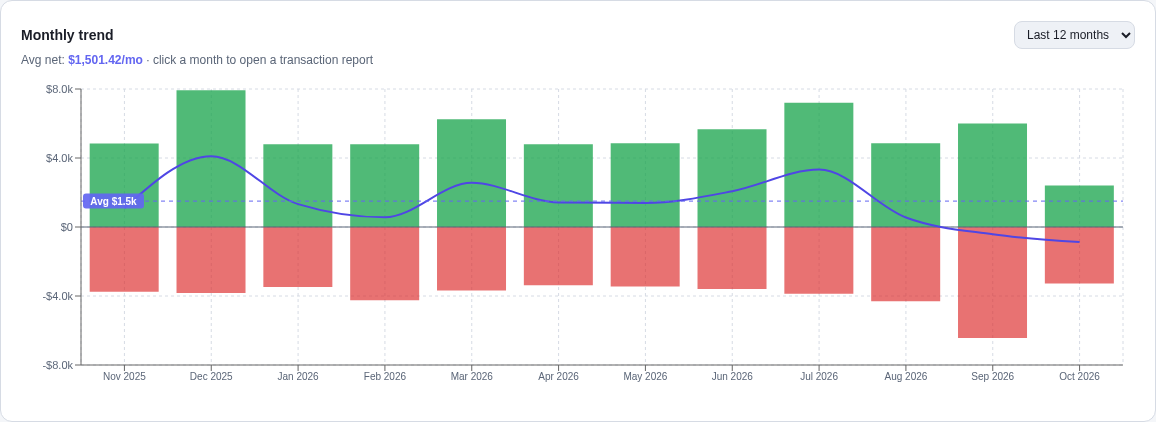
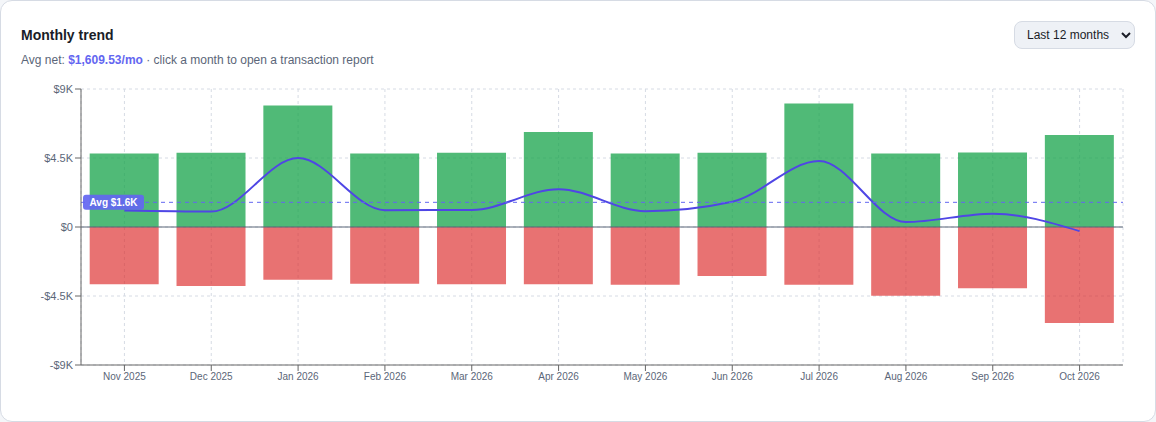
Update screenshots as they are all affected by the changes since the last set

diff --git a/frontend/tests/screenshots/readme.spec.js b/frontend/tests/screenshots/readme.spec.js
@@ -121,6 +121,8 @@ test('amazon reconciliation', async ({ page }) => {
   await expect(dialog).toBeVisible()
   // The panel is translucent so the page shows through it, which reads as smudging once cropped.
   await dialog.evaluate(el => { el.style.background = 'var(--surface)' })
+  // The click that opened the panel leaves the pointer over its last row, which opens that row's tooltip.
+  await page.mouse.move(0, 0)
   await hideDemoBanner(page)
   await settle(page)
   await dialog.screenshot({ path: path.join(OUT_DIR, 'amazon-reconciliation.png') })

diff --git a/backend/db/demo_data.py b/backend/db/demo_data.py
@@ -20,10 +20,12 @@ later re-import of equivalent rows dedupes naturally.
 can never overwrite or pollute real data.
 """
 
+import calendar
 import csv
 import hashlib
 import io
 import json
+import random
 import uuid
 from datetime import date, timedelta
 
@@ -217,6 +219,28 @@ def load_demo_data(conn, scope_id: str | None = None) -> dict:
     def d(days_ago: int) -> str:
         return (today - timedelta(days=days_ago)).isoformat()
 
+    # A bill falls on the same day every month. Stepping back a fixed thirty days instead drifts across
+    # month ends, so depending on the load date one calendar month gets two rents and the next none, and
+    # every monthly chart turns lumpy. `days_ago` places the newest occurrence; a shorter month takes its
+    # last day.
+    def monthly(days_ago: int, months_back: int) -> str:
+        newest = today - timedelta(days=days_ago)
+        year, month0 = divmod(newest.year * 12 + newest.month - 1 - months_back, 12)
+        last_day = calendar.monthrange(year, month0 + 1)[1]
+        return date(year, month0 + 1, min(newest.day, last_day)).isoformat()
+
+    # Everyday spending comes at irregular gaps, bunched some weeks and sparse others, so it covers every
+    # day of the month rather than repeating one weekday or one day-of-month. A fixed seed keeps the
+    # ledger identical on every load.
+    rng = random.Random(2026)
+
+    def scattered(mean_gap: float, first: int, *, until: int = 388, count: int | None = None) -> list[int]:
+        days_ago, day = [], first
+        while (day <= until) if count is None else (len(days_ago) < count):
+            days_ago.append(day)
+            day += max(1, round(rng.gammavariate(3, mean_gap / 3)))
+        return days_ago
+
     # --- Owners + accounts up front (typed + owned). The CSVs reference accounts by name, so the import
     # maps onto these rather than creating untyped, unowned accounts. ---
     owners = {
@@ -249,34 +273,33 @@ def load_demo_data(conn, scope_id: str | None = None) -> dict:
 
     # `amount` is the intended STORED value (spending +, income −). The CSV carries the natural bank
     # convention (income +, spending −); single_signed import negates it back (parse_amount → -val).
-    def bank(days_ago, desc, category, amount, acct):
-        bank_rows.append((d(days_ago), desc, category, f"{-amount:.2f}", name_of[acct]))
+    def bank(when, desc, category, amount, acct):
+        bank_rows.append((when, desc, category, f"{-amount:.2f}", name_of[acct]))
 
     # The steady activity runs thirteen months, so "Last 12 months" — the dashboard's default period — is
     # full from end to end and every trend chart has a year of shape rather than a few recent bars. The
     # figures are sized to one household: income clears spending by a believable margin, not by double.
-    def seasonal(by_month, m):
-        # `m` counts back from this month, so the seasonal position follows the real calendar.
-        return by_month[(today.month - 1 - m) % 12]
+    def seasonal(by_month, when):
+        return by_month[int(when[5:7]) - 1]
 
     for i in range(28):
-        bank(7 + i * 14, "Acme Corp Payroll", "Salary", -2400.00, "checking")
+        bank(d(7 + i * 14), "Acme Corp Payroll", "Salary", -2400.00, "checking")
     # Occasional freelance work: irregular in both timing and size, the income that is not a paycheck.
     for days_ago, amount in [(24, 1150.00), (118, 860.00), (205, 1400.00), (290, 725.00), (370, 980.00)]:
-        bank(days_ago, "Brightline Design — invoice", "Freelance", -amount, "checking")
+        bank(d(days_ago), "Brightline Design — invoice", "Freelance", -amount, "checking")
     # Electricity peaks in summer (air conditioning), the opposite of the gas bill below.
     power_by_month = [88.40, 81.15, 76.30, 72.85, 84.10, 118.60,
                       146.25, 152.90, 121.40, 86.75, 78.20, 90.65]
     for m in range(13):
-        base = m * 30
-        bank(base + 1, "Parkside Apartments", "Rent & Mortgage", 2200.00, "checking")
-        bank(base + 3, "City Power & Light", "Electricity", seasonal(power_by_month, m), "checking")
-        bank(base + 4, "Fiberlink", "Internet", 69.99, "checking")
-        bank(base + 5, "CellOne Mobile", "Phone", 55.00, "checking")
-        bank(base + 10, "Keystone Auto Insurance", "Auto Insurance", 132.00, "checking")
+        bank(monthly(1, m), "Parkside Apartments", "Rent & Mortgage", 2200.00, "checking")
+        power_day = monthly(3, m)
+        bank(power_day, "City Power & Light", "Electricity", seasonal(power_by_month, power_day), "checking")
+        bank(monthly(4, m), "Fiberlink", "Internet", 69.99, "checking")
+        bank(monthly(5, m), "CellOne Mobile", "Phone", 55.00, "checking")
+        bank(monthly(10, m), "Keystone Auto Insurance", "Auto Insurance", 132.00, "checking")
     # Month 0's water bill is the one that outgrew its rule, further down.
     for m in range(1, 13):
-        bank(m * 30 + 6, "Metro Water", "Water", 34.10 + (m * 7) % 12, "checking")
+        bank(monthly(6, m), "Metro Water", "Water", 34.10 + (m * 7) % 12, "checking")
     # A gas bill with a real winter peak, carried back far enough to be seasonal rather than noisy. Two
     # features need this shape and nothing else in the set provides it: the price-change signal's
     # tightness test (which reads the whole prior history, so four flat summer bills must not make the
@@ -285,7 +308,8 @@ def load_demo_data(conn, scope_id: str | None = None) -> dict:
     gas_by_month = [148.20, 132.75, 88.40, 61.30, 44.85, 39.10,
                     41.60, 43.25, 58.90, 79.40, 104.60, 139.80]
     for m in range(14):
-        bank(m * 30 + 8, "Northgate Gas", "Natural Gas", seasonal(gas_by_month, m), "checking")
+        gas_day = monthly(8, m)
+        bank(gas_day, "Northgate Gas", "Natural Gas", seasonal(gas_by_month, gas_day), "checking")
 
     # A subscription that stops two periods before the data ends. Two constraints decide those numbers
     # and they pull against each other: the missed signal is judged against how fresh the *data* is
@@ -293,19 +317,19 @@ def load_demo_data(conn, scope_id: str | None = None) -> dict:
     # recency to zero at three periods without a charge, and an undetected series cannot be missed. A
     # long run ending about two and a half months back sits in the gap, and reads as what it is: a
     # subscription that was cancelled, or a payment method that quietly expired.
-    for m in range(2, 9):
-        bank(m * 30 + 12, "CloudVault Backup", "Software & Subscriptions", 9.99, "checking")
+    for m in range(7):
+        bank(monthly(72, m), "CloudVault Backup", "Software & Subscriptions", 9.99, "checking")
 
     # The other bill from the same biller, and the reason its rule carries a floor rather than the water
     # rule simply matching everything: told apart by size, nothing else about them differs.
-    bank(75, "Metro Water", "Home Repairs", 185.00, "checking")
+    bank(d(75), "Metro Water", "Home Repairs", 185.00, "checking")
 
     # The newest water bill, arriving just past the ceiling on the rule that files these. It carries no
     # category *because* of that: the range on a rule is a matching gate, so a bill that grows past it
     # stops matching and quietly stops being categorized. Nothing else in the app notices, which is the
     # whole reason the drift signal exists — and why this row must not be filed under Water here, since
     # a row already carrying the rule's own category is by definition fine.
-    bank(4, "Metro Water", "", 63.40, "checking")
+    bank(monthly(6, 0), "Metro Water", "", 63.40, "checking")
 
     # A standing transfer, recorded twice — leaving checking and arriving in savings — which is what
     # every movement between two tracked accounts looks like to a ledger organized by account. Detection
@@ -314,10 +338,10 @@ def load_demo_data(conn, scope_id: str | None = None) -> dict:
     # two sides are worded differently on purpose: pairing is structural — rows that offset exactly — and
     # a demo whose legs shared a name would let a name-based shortcut look like it worked.
     for m in range(13):
-        bank(m * 30 + 5, "Transfer to Savings", "Bank Transfer", 500.00, "checking")
-        bank(m * 30 + 5, "Transfer from Checking", "Bank Transfer", -500.00, "savings")
+        bank(monthly(5, m), "Transfer to Savings", "Bank Transfer", 500.00, "checking")
+        bank(monthly(5, m), "Transfer from Checking", "Bank Transfer", -500.00, "savings")
     # One row only: categorize.spec.js finds it by name as the single categorized row it edits.
-    bank(31, "Interest Payment", "Interest Income", -12.18, "savings")
+    bank(d(31), "Interest Payment", "Interest Income", -12.18, "savings")
 
     # Paying off the card: the other movement every household with a credit card makes, and the one a
     # ledger most often counts twice — once as the purchases on the card, again as the payment leaving
@@ -328,75 +352,77 @@ def load_demo_data(conn, scope_id: str | None = None) -> dict:
     # card-side rows are in the card source below; a rule files them.
     card_payments = [812.48, 945.10, 833.92, 898.15, 1010.37, 887.60, 924.33,
                      861.75, 1102.40, 979.05, 846.62, 1218.90, 905.14]
-    for m, amount in enumerate(card_payments):
-        bank(m * 30 + 15, "Rewards Card Autopay", "Credit Card Payment", amount, "checking")
+    autopay_days = [monthly(15, m) for m in range(len(card_payments))]
+    for when, amount in zip(autopay_days, card_payments):
+        bank(when, "Rewards Card Autopay", "Credit Card Payment", amount, "checking")
 
     # A sofa paid for in two instalments: a deposit when ordered, the balance on delivery. Each payment is
     # real money on its own date and is already counted correctly, so what the multi-payment purchase
     # built afterwards adds is only the relationship — and the expected total that shows nothing is still
     # owed. "Furniture" is not a starter leaf; it is grouped after the import, as a user part-way through
     # the imported-categories workspace would have done.
-    bank(70, "Oakline Furniture", "Furniture", 450.00, "checking")
-    bank(16, "Oakline Furniture", "Furniture", 1149.00, "checking")
+    bank(d(70), "Oakline Furniture", "Furniture", 450.00, "checking")
+    bank(d(16), "Oakline Furniture", "Furniture", 1149.00, "checking")
 
     # The irregular spending of a year: a summer trip, the dentist twice, prescriptions, and the holidays
     # (placed by calendar month, like the bills above, so December lands in December).
-    bank(250, "SkyWest Air", "Air Travel", 586.40, "checking")
-    bank(236, "Coastline Car Rental", "Rental Car", 214.75, "checking")
-    bank(160, "Bright Smile Dental", "Dental", 95.00, "checking")
-    bank(340, "Bright Smile Dental", "Dental", 95.00, "checking")
+    bank(d(250), "SkyWest Air", "Air Travel", 586.40, "checking")
+    bank(d(236), "Coastline Car Rental", "Rental Car", 214.75, "checking")
+    bank(d(160), "Bright Smile Dental", "Dental", 95.00, "checking")
+    bank(d(340), "Bright Smile Dental", "Dental", 95.00, "checking")
     for days_ago, amount in [(38, 24.60), (132, 18.25), (221, 24.60), (309, 31.40)]:
-        bank(days_ago, "Lakeview Pharmacy", "Pharmacy", amount, "checking")
+        bank(d(days_ago), "Lakeview Pharmacy", "Pharmacy", amount, "checking")
     for m in range(1, 13):
-        if (today.month - 1 - m) % 12 in (10, 11):   # November, December
-            bank(m * 30 + 13, "Maple & Co. Gifts", "Gifts Given", 145.00 + m * 6, "checking")
+        when = monthly(13, m)
+        if when[5:7] in ("11", "12"):
+            bank(when, "Maple & Co. Gifts", "Gifts Given", 145.00 + m * 6, "checking")
 
     # The hardware store the bank's export filed two ways: some visits were a project, some a repair, and
     # nothing on the row says which. The amounts overlap and every row is on one account, so no rule can
     # tell them apart, and the Generate Rules review shows them as a conflict set to resolve.
     for days_ago, amount in [(64, 89.40), (151, 212.75), (158, 46.10), (318, 134.60)]:
-        bank(days_ago, "Hearthside Hardware", "Home Improvement", amount, "checking")
+        bank(d(days_ago), "Hearthside Hardware", "Home Improvement", amount, "checking")
     for days_ago, amount in [(29, 58.25), (233, 141.30)]:
-        bank(days_ago, "Hearthside Hardware", "Home Repairs", amount, "checking")
+        bank(d(days_ago), "Hearthside Hardware", "Home Repairs", amount, "checking")
 
     # A class pass given up a little over a year ago. Its rule suggestion is still pending, and it is the
     # one a one-year look-back moves into the review's Older view.
     for days_ago, amount in [(396, 85.00), (431, 85.00), (473, 120.00), (509, 85.00)]:
-        bank(days_ago, "Harbor Yoga Studio", "Fitness Classes", amount, "checking")
+        bank(d(days_ago), "Harbor Yoga Studio", "Fitness Classes", amount, "checking")
 
     # The money coming back. Each is claimed by one of the reimbursements built after the import; until
     # then they are ordinary inflows, which is exactly what they look like to someone who has not
     # recorded the debt.
-    bank(27, "Expense reimbursement — Northwind Ltd", "Reimbursed Expenses", -388.00, "checking")
-    bank(26, "Sam Okafor — lunch", "Reimbursed Expenses", -24.00, "checking")
-    bank(26, "Priya Raman — lunch", "Reimbursed Expenses", -24.00, "checking")
-    bank(26, "Dana Whitfield — lunch", "Reimbursed Expenses", -24.00, "checking")
-    bank(22, "Sam Okafor — concert ticket", "Reimbursed Expenses", -35.00, "checking")
+    bank(d(27), "Expense reimbursement — Northwind Ltd", "Reimbursed Expenses", -388.00, "checking")
+    bank(d(26), "Sam Okafor — lunch", "Reimbursed Expenses", -24.00, "checking")
+    bank(d(26), "Priya Raman — lunch", "Reimbursed Expenses", -24.00, "checking")
+    bank(d(26), "Dana Whitfield — lunch", "Reimbursed Expenses", -24.00, "checking")
+    bank(d(22), "Sam Okafor — concert ticket", "Reimbursed Expenses", -35.00, "checking")
     # Receivables still being worked on; demo_examples files and tracks them.
-    bank(52, "Brightwater Physical Therapy", "Medical Services", 180.00, "checking")
-    bank(19, "Summit Health Plan claim", "Reimbursed Expenses", -144.00, "checking")
-    bank(95, "Pinecrest Cabins", "Hotel", 480.00, "checking")
-    bank(9, "Print & Copy Depot", "Home Office", 42.80, "checking")
-    bank(3, "Acme Corp Expense Reimb", "Reimbursed Expenses", -42.80, "checking")
+    bank(d(52), "Brightwater Physical Therapy", "Medical Services", 180.00, "checking")
+    bank(d(19), "Summit Health Plan claim", "Reimbursed Expenses", -144.00, "checking")
+    bank(d(95), "Pinecrest Cabins", "Hotel", 480.00, "checking")
+    bank(d(9), "Print & Copy Depot", "Home Office", 42.80, "checking")
+    bank(d(3), "Acme Corp Expense Reimb", "Reimbursed Expenses", -42.80, "checking")
     # "Pet Care" isn't a starter leaf, so importing it here creates the leaf (under Unassigned).
-    bank(20, "Petco", "Pet Care", 46.20, "checking")
-    bank(48, "Chewy", "Pet Care", 61.85, "checking")
+    bank(d(20), "Petco", "Pet Care", 46.20, "checking")
+    bank(d(48), "Chewy", "Pet Care", 61.85, "checking")
     # A handful of categories that AREN'T in the starter set, so they land in Unassigned and give the
     # "Group imported categories" workspace something to demonstrate. (Labels matching a starter leaf
     # reuse it, and income labels auto-file under the Income group, so only novel expense labels surface.)
-    bank(12, "WeWork Desk", "Home Office", 180.00, "checking")
-    bank(22, "Bright Kids Daycare", "Childcare", 850.00, "checking")
-    bank(40, "City Vet Clinic", "Veterinary", 120.00, "checking")
-    bank(52, "Red Cross Donation", "Charitable Giving", 75.00, "checking")
-    bank(26, "Annual Membership", "Fees & Charges", 96.00, "checking")   # cross-account duplicate, leg A
+    bank(d(12), "WeWork Desk", "Home Office", 180.00, "checking")
+    bank(d(22), "Bright Kids Daycare", "Childcare", 850.00, "checking")
+    bank(d(40), "City Vet Clinic", "Veterinary", 120.00, "checking")
+    bank(d(52), "Red Cross Donation", "Charitable Giving", 75.00, "checking")
+    bank(d(26), "Annual Membership", "Fees & Charges", 96.00, "checking")   # cross-account duplicate, leg A
 
     # ===== Source 2: "Rewards Card" — a raw export WITHOUT categories (card + brokerage, plus one savings
     # row). Format B uses different header names (so it's a distinct data source); rows here are categorized
     # only by the rules created below, or land uncategorized — demonstrating the other import path. =====
     card_rows = []  # (transaction date, payee, amount, account_name)
 
-    def card(days_ago, payee, amount, acct="card"):
-        card_rows.append((d(days_ago), payee, f"{-amount:.2f}", name_of[acct]))
+    def card(when, payee, amount, acct="card"):
+        card_rows.append((when, payee, f"{-amount:.2f}", name_of[acct]))
 
     # Six months rather than three so the price step below is judged against an established price. The
     # newest charge is the one that moved: price change is measured against the occurrences *preceding*
@@ -408,50 +434,50 @@ def load_demo_data(conn, scope_id: str | None = None) -> dict:
     # nothing for as long as the comment here claimed it did. The threshold lives in
     # `recurring_signals._FIXED_STEP_FRACTION`; keep this rise comfortably the far side of it.
     for m in range(13):
-        base = m * 30
-        card(base + 8, "Netflix", 15.99 if m else 18.99)   # rule → Streaming Services
-        card(base + 9, "FitClub", 40.00)                   # recurring rule → Gym Membership
-        card(base + 17, "Spotify", 11.99)                  # rule → Streaming Services
-    # The everyday spending repeats on a cadence but never at one price; the small deterministic wobble
-    # (`(i * k) % n`) keeps every month's total close to the last without any row repeating exactly.
+        card(monthly(8, m), "Netflix", 15.99 if m else 18.99)   # rule → Streaming Services
+        card(monthly(9, m), "FitClub", 40.00)                   # recurring rule → Gym Membership
+        card(monthly(17, m), "Spotify", 11.99)                  # rule → Streaming Services
+    # The everyday spending never repeats one price either; the small deterministic wobble (`(i * k) % n`)
+    # keeps every month's total near the last without any row repeating exactly.
     grocers = ["Costco", "Trader Joe's", "Whole Foods", "Safeway"]
     grocery_amts = [168.40, 58.10, 104.75, 76.30]
-    for i in range(56):
-        card(2 + i * 7, grocers[i % 4], grocery_amts[i % 4] + (i * 7) % 23)   # rules → Groceries
+    for i, days_ago in enumerate(scattered(7, 2)):
+        card(d(days_ago), grocers[i % 4], grocery_amts[i % 4] + (i * 7) % 23)   # rules → Groceries
     # Blue Bottle is the one merchant no rule claims, so a few rows stay uncategorized to work on.
     coffee_amts = [4.75, 5.40, 6.25, 4.10, 5.95]
-    for i in range(32):
-        card(1 + i * 12, "Starbucks" if i % 2 else "Blue Bottle", coffee_amts[i % 5])  # Starbucks → rule
+    for i, days_ago in enumerate(scattered(12, 1)):
+        card(d(days_ago), "Starbucks" if i % 2 else "Blue Bottle", coffee_amts[i % 5])  # Starbucks → rule
     diners = ["The Corner Bistro", "Sushi House", "Taco Stand", "Pasta Bar"]
-    for i in range(36):
-        card(3 + i * 11, diners[i % 4], 26.50 + (i * 5) % 19)     # rules → Dining Out
-    for i in range(30):
-        card(4 + i * 13, "Shell" if i % 2 else "Chevron", 38.00 + (i * 3) % 17)   # rules → Gas
+    for i, days_ago in enumerate(scattered(11, 3)):
+        card(d(days_ago), diners[i % 4], 26.50 + (i * 5) % 19)     # rules → Dining Out
+    for i, days_ago in enumerate(scattered(13, 4)):
+        card(d(days_ago), "Shell" if i % 2 else "Chevron", 38.00 + (i * 3) % 17)   # rules → Gas
     for days_ago, amount in [(19, 31.50), (87, 28.00), (163, 34.50), (241, 28.00), (318, 31.50)]:
-        card(days_ago, "Cinemark Theatres", amount)               # rule → Movies & Events
+        card(d(days_ago), "Cinemark Theatres", amount)               # rule → Movies & Events
     for days_ago, amount in [(11, 18.40), (57, 23.75), (128, 16.90), (199, 27.30), (274, 21.15)]:
-        card(days_ago, "Uber Trip", amount)                       # rule → Rideshare
+        card(d(days_ago), "Uber Trip", amount)                       # rule → Rideshare
     online_amts = [23.99, 119.40, 14.25, 56.80, 31.10, 78.65, 19.99, 44.50]
     amazon_charges = []   # (days_ago, amount), for the order history imported against them below
-    for i in range(8):
-        card(5 + i * 8, "Amazon", online_amts[i])                # Amazon → rule
-        amazon_charges.append((5 + i * 8, online_amts[i]))
-    card(15, "Amazon Refund", -45.00)                            # refund (income); "amazon" → rule
+    for days_ago, amount in zip(scattered(8, 5, count=len(online_amts)), online_amts):
+        card(d(days_ago), "Amazon", amount)                      # Amazon → rule
+        amazon_charges.append((days_ago, amount))
+    card(d(15), "Amazon Refund", -45.00)                            # refund (income); "amazon" → rule
 
     # Rows the worked examples further down build on. They import as ordinary transactions; what makes
     # them examples is what is done to them afterwards.
-    card(33, "Warehouse Club", 214.60)          # split across two categories
-    card(41, "Northgate Hotel", 388.00)         # work expense, repaid in full a fortnight later
-    card(41, "Sky Harbor Parking", 64.00)       # part of the same trip, attached receipt
-    card(26, "Lakeside Taverna", 96.00)         # lunch for four, repaid the same day
-    card(30, "Riverstone Amphitheater", 105.00) # three tickets, two of them owed back
+    card(d(33), "Warehouse Club", 214.60)          # split across two categories
+    card(d(41), "Northgate Hotel", 388.00)         # work expense, repaid in full a fortnight later
+    card(d(41), "Sky Harbor Parking", 64.00)       # part of the same trip, attached receipt
+    card(d(26), "Lakeside Taverna", 96.00)         # lunch for four, repaid the same day
+    card(d(30), "Riverstone Amphitheater", 105.00) # three tickets, two of them owed back
     for q, amount in enumerate([52.40, 49.85, 47.10, 45.60]):
-        card(45 + q * 91, "Quarterly Dividend", -amount, "brokerage")   # uncategorized income
+        card(monthly(45, q * 3), "Quarterly Dividend", -amount, "brokerage")   # uncategorized income
     # Leg B lands on savings, not the card: a duplicate is one account recorded twice, and a checking row
     # and a card row can never be that (duplicate_detection.account_types_can_match).
-    card(26, "Annual Membership", 96.00, "savings")              # cross-account duplicate, leg B
-    for m, amount in enumerate(card_payments):
-        card(m * 30 + 14, "Payment Received - Thank You", -amount)   # the card side of each autopay
+    card(d(26), "Annual Membership", 96.00, "savings")              # cross-account duplicate, leg B
+    for when, amount in zip(autopay_days, card_payments):
+        posted = (date.fromisoformat(when) + timedelta(days=1)).isoformat()
+        card(posted, "Payment Received - Thank You", -amount)   # the card side of each autopay
 
     bank_cols = {"date": "Date", "description": "Description", "category": "Category", "amount": "Amount", "account": "Account"}
     card_cols = {"date": "Transaction Date", "description": "Payee", "amount": "Amount", "account": "Account"}

diff --git a/docs/architecture.md b/docs/architecture.md
@@ -122,7 +122,9 @@ requirements, because popovers, inline editors and dismissal rules rebuilt per p
   through the feature (each recurring signal kind fires, a document's text was extracted) rather than by
   row count, because the dataset exists to demonstrate features. It is also what the README screenshots
   are captured from (`npm run screenshots`), so it carries thirteen months of steady, household-sized
-  activity and only the last week arrives unreviewed.
+  activity and only the last week arrives unreviewed. Monthly rows fall on the same calendar day each
+  month, never a fixed count of days apart, so every month's total is steady whatever day the ledger
+  loads.
 
 - **Demo mode blocks every path that brings data in.** Loading writes a marker (`demo_data` in the data
   DB's `import_workflow_state`). While it is present the backend answers 409 to CSV import, the Amazon
